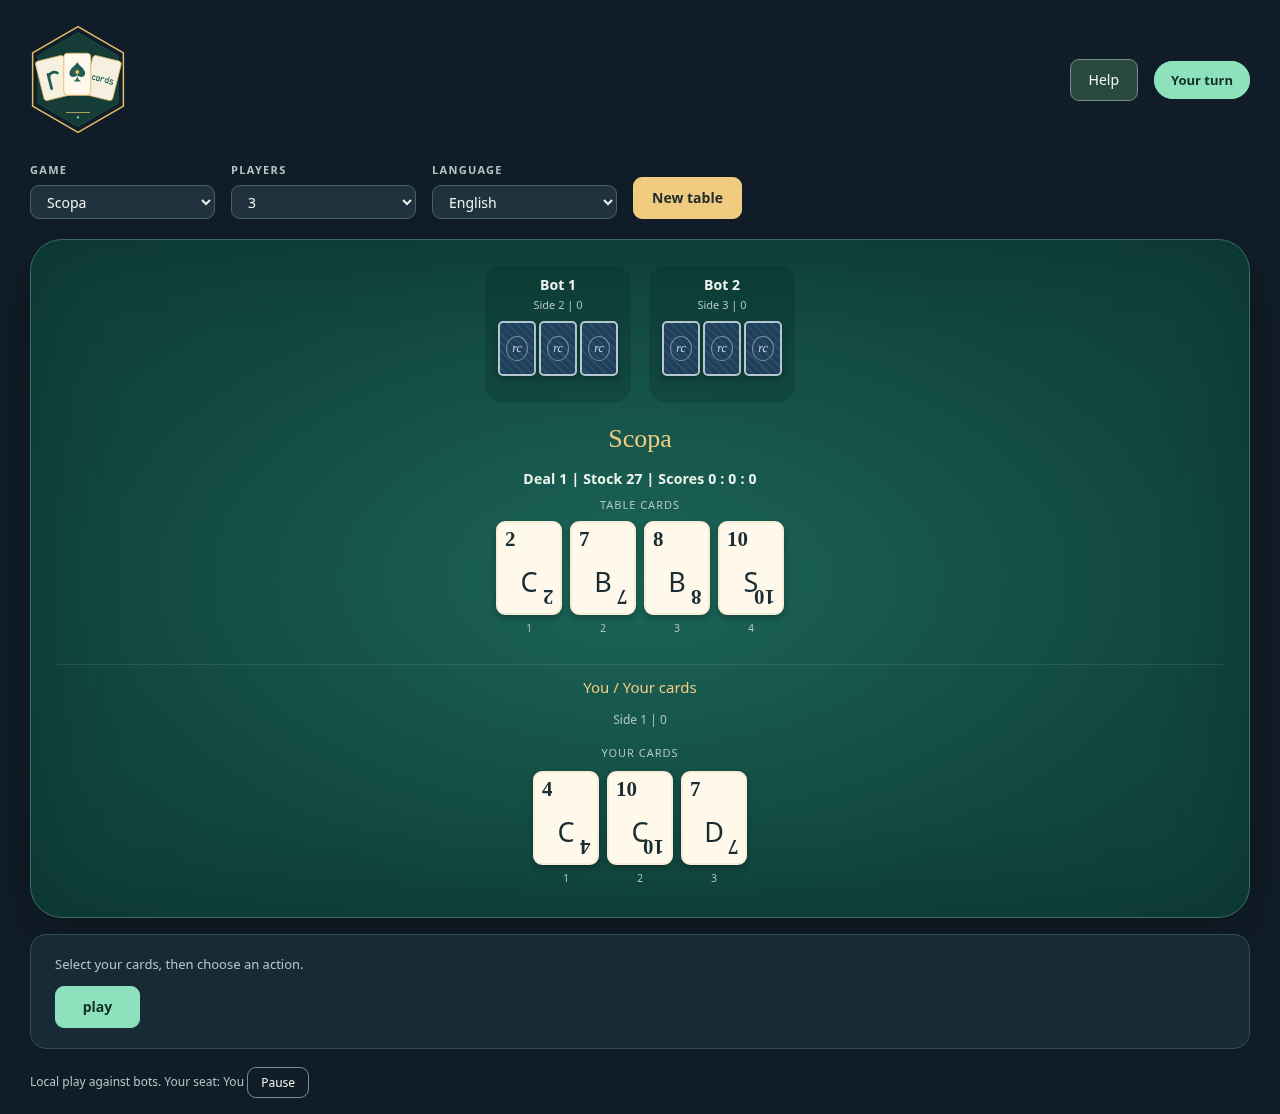
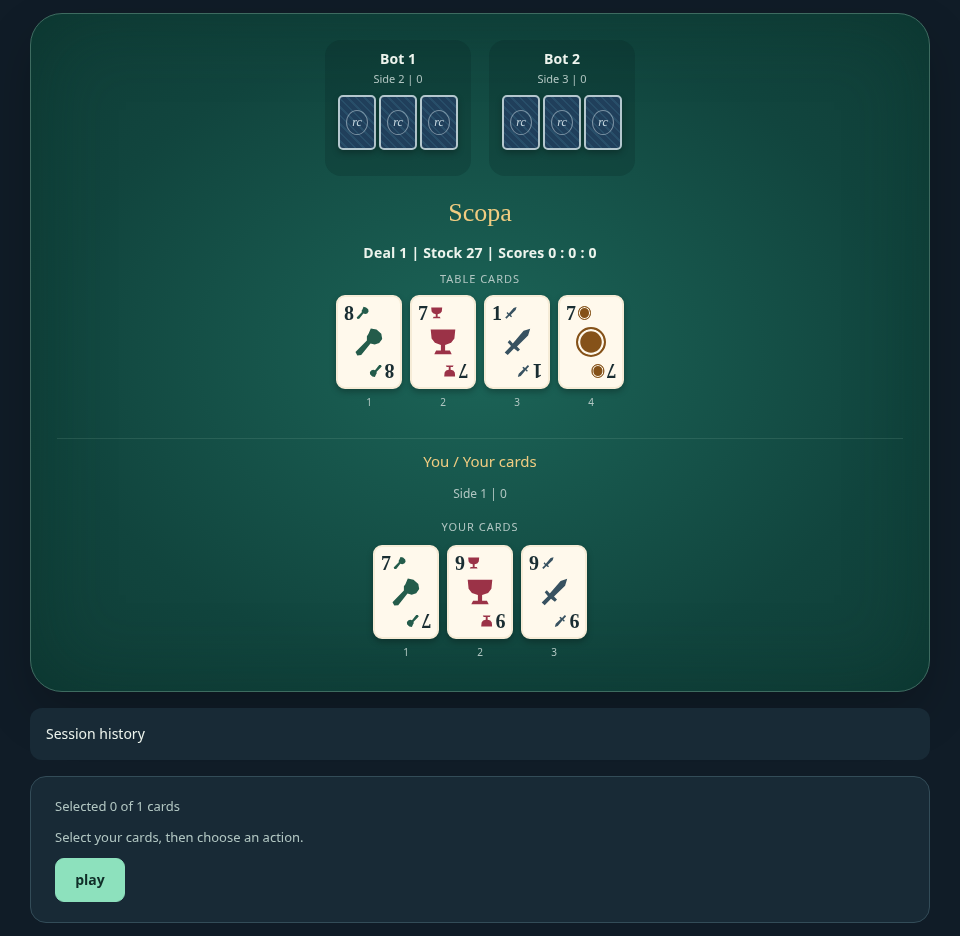
Refresh README screenshots for suits and analysis controls

diff --git a/README.md b/README.md
@@ -14,10 +14,10 @@ into one R package.
 [Statistics](#probabilities-and-simulations) · [Documentation](#documentation)
 
 <p align="center">
-  <img src="man/figures/table-scopa.png" alt="The rcards graphical Scopa table with three players, covered opponents, public table cards, and the human hand" width="960">
+  <img src="man/figures/table-scopa.png" alt="The rcards Scopa table with coin, cup, sword, and baton suit marks on the public cards and the human hand" width="960">
 </p>
 
-*A local Scopa table: your cards, public information, and a choice of legal moves.*
+*Scopa uses coin, cup, sword, and baton marks for the four Italian suits.*
 
 ## Start playing
 
@@ -47,6 +47,14 @@ The graphical app runs locally in your browser and keeps each session in
 memory. See [graphical play](docs/graphical-interface.md) for configured games,
 controls, and session limits. **Help** explains the current game and links to
 bug reports and new-game suggestions in this repository.
+
+During your turn, open **Hand odds** in Texas Hold'em to explore showdown
+probabilities and what-if cards. In Blackjack, use **Compare actions** to see
+the estimated net profit for each legal move.
+
+<p align="center">
+  <img src="man/figures/table-analysis.png" alt="The Hold'em Hand odds button and the Blackjack Compare actions button below the in-game controls" width="960">
+</p>
 
 ### Prefer the console?
 

diff --git a/docs/branding.md b/docs/branding.md
@@ -24,9 +24,13 @@ of the rcards local Shiny interface with a seeded three-player Scopa game.
 The player names and cards are generated demonstration data. The screenshot
 contains the app's own HTML/CSS card faces and backs.
 
+[`man/figures/table-analysis.png`](../man/figures/table-analysis.png) places two
+captures of the local Shiny interface side by side to show the Hold'em and
+Blackjack analysis buttons.
+
 ## License
 
-The logo and table preview are distributed under the repository's
+The logo and table previews are distributed under the repository's
 [Apache License 2.0](../LICENSE). No third-party artwork or font files are
 bundled with them. This provenance record does not claim a trademark search or
 legal clearance.
